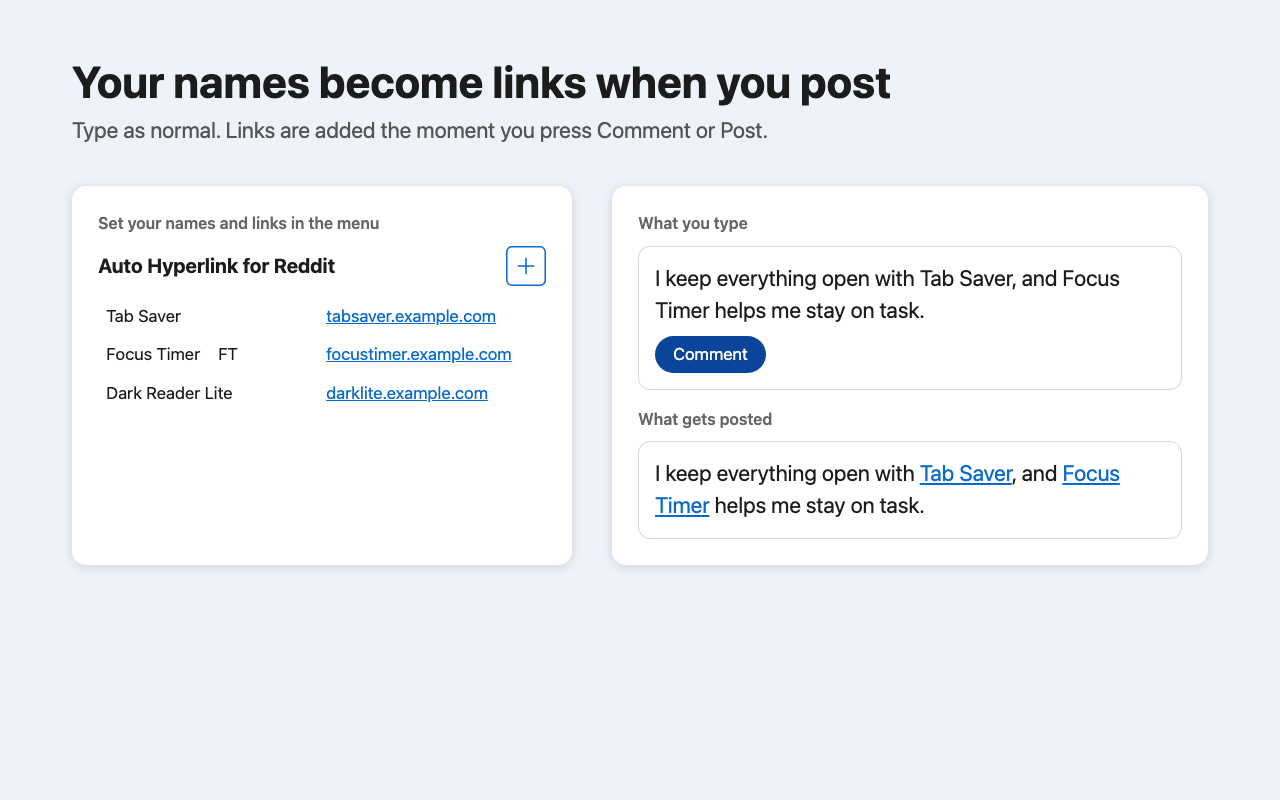
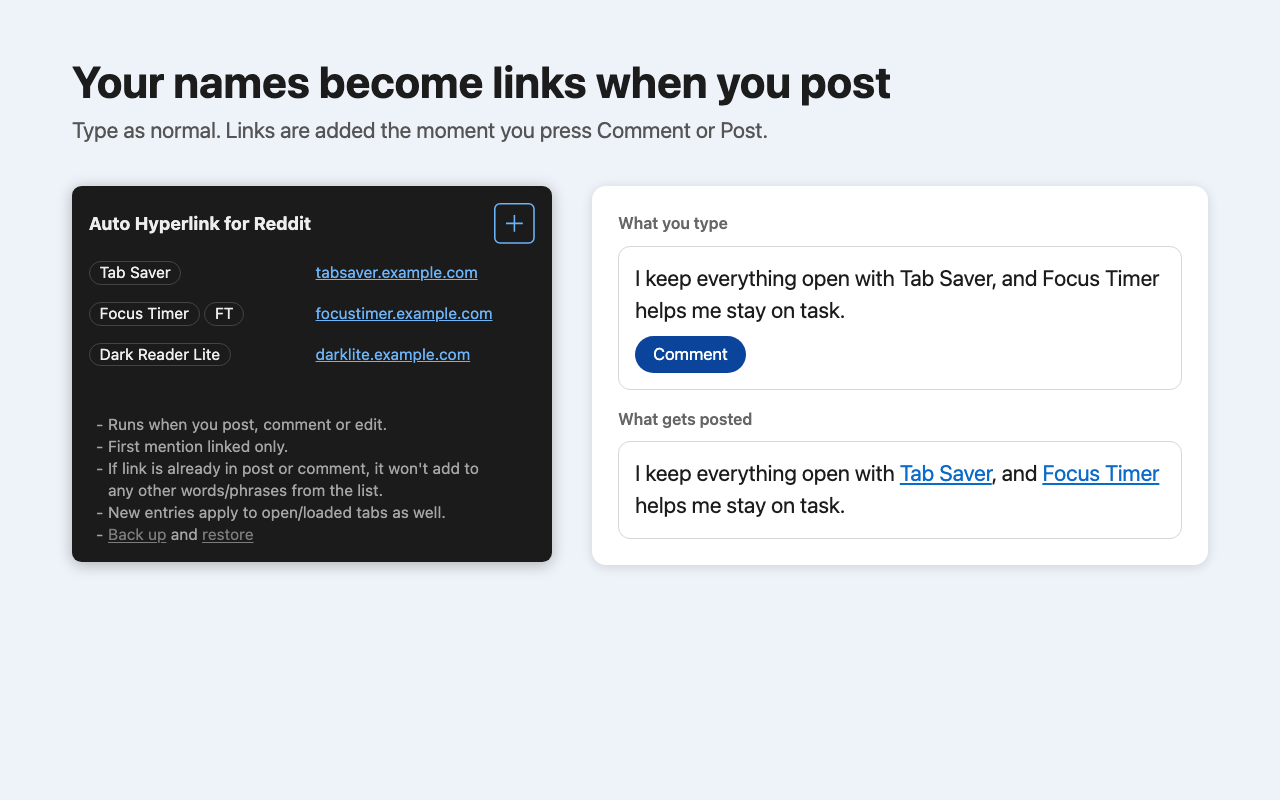
Store screenshot: draw the menu as it really looks

Changed region(s): [[0.0312, 0.2188, 0.4375, 0.7188], [0.4688, 0.25, 0.9062, 0.6875]]

diff --git a/store/screenshot.html b/store/screenshot.html
@@ -3,27 +3,40 @@
   * { box-sizing: border-box; } html, body { margin: 0; width: 1280px; height: 800px; }
   body { background: #eef3f9; color: #1c1c1c; font: 22px/1.45 system-ui, sans-serif; padding: 56px 72px; }
   h1 { font-size: 44px; line-height: 1.15; margin: 0 0 8px; } .sub { color: #555; margin: 0 0 40px; }
-  .cols { display: grid; grid-template-columns: 500px 1fr; gap: 40px; }
+  .cols { display: grid; grid-template-columns: 480px 1fr; gap: 40px; align-items: start; }
   .card { background: #fff; border-radius: 14px; padding: 26px; box-shadow: 0 2px 12px #0002; }
   .tag { font-size: 16px; font-weight: 600; color: #666; margin-bottom: 10px; }
-  /* The menu's own look: names as plain text beside the link's site, under its title and + button. */
-  .head { display: flex; align-items: center; justify-content: space-between; margin-bottom: 18px; }
-  .head b { font-size: 20px; }
-  .add { width: 40px; height: 40px; }
-  .add svg { display: block; fill: none; stroke: #0b6bcb; stroke-width: 1.3; }
-  .row { display: grid; grid-template-columns: 1fr 1fr; align-items: center; gap: 8px; margin-bottom: 14px; font-size: 17px; }
-  .names { display: flex; flex-wrap: wrap; gap: 4px 18px; padding-left: 8px; }
   .box { border: 1px solid #d6d6d6; border-radius: 12px; padding: 16px; margin-bottom: 18px; }
-  a { color: #0b6bcb; } .btn { display: inline-block; background: #0a449b; color: #fff; border-radius: 99px; padding: 6px 18px; font-size: 17px; margin-top: 10px; }
+  .card a { color: #0b6bcb; } .btn { display: inline-block; background: #0a449b; color: #fff; border-radius: 99px; padding: 6px 18px; font-size: 17px; margin-top: 10px; }
+  /* The menu in dark mode, with popup.html's own sizes and colors, at 1.2x. */
+  .menu { --bg: #1b1b1b; --fg: #eee; --weak: #a5a5a5; --line: #444; --accent: #6db3f8; zoom: 1.2; width: 400px; padding: 14px; border-radius: 8px; background: var(--bg); color: var(--fg); font: 13px/1.4 system-ui, sans-serif; box-shadow: 0 2px 12px #0004; }
+  .menu header { display: flex; align-items: center; justify-content: space-between; margin-bottom: 10px; }
+  .menu b { font-size: 15px; }
+  .menu svg { display: block; fill: none; stroke: var(--accent); stroke-width: 1.3; }
+  .row { display: grid; grid-template-columns: 1fr 1fr; align-items: start; gap: 6px; margin-bottom: 6px; }
+  .names { display: flex; flex-wrap: wrap; align-items: center; gap: 4px; min-height: 28px; }
+  .chip { padding: 0 8px; border: 1px solid var(--line); border-radius: 999px; }
+  .link { display: flex; align-items: center; min-height: 28px; }
+  .link a { color: var(--accent); }
+  .note { margin: 26px 0 0; padding: 10px 30px 0 16px; color: var(--weak); list-style: none; }
+  .note li::before { content: "-"; position: absolute; margin-left: -10px; }
+  .note u { color: color-mix(in srgb, var(--weak) 70%, var(--bg)); text-underline-offset: 2px; }
 </style>
 <h1>Your names become links when you post</h1>
 <p class="sub">Type as normal. Links are added the moment you press Comment or Post.</p>
 <div class="cols">
-  <div class="card"><div class="tag">Set your names and links in the menu</div>
-    <div class="head"><b>Auto Hyperlink for Reddit</b><div class="add"><svg width="40" height="40" viewBox="0 0 34 34"><rect x="0.65" y="0.65" width="32.7" height="32.7" rx="4.35"/><path d="M17 10v14M10 17h14"/></svg></div></div>
-    <div class="row"><div class="names"><span>Tab Saver</span></div><a href="#">tabsaver.example.com</a></div>
-    <div class="row"><div class="names"><span>Focus Timer</span><span>FT</span></div><a href="#">focustimer.example.com</a></div>
-    <div class="row"><div class="names"><span>Dark Reader Lite</span></div><a href="#">darklite.example.com</a></div>
+  <div class="menu">
+    <header><b>Auto Hyperlink for Reddit</b><svg width="34" height="34" viewBox="0 0 34 34"><rect x="0.65" y="0.65" width="32.7" height="32.7" rx="4.35"/><path d="M17 10v14M10 17h14"/></svg></header>
+    <div class="row"><div class="names"><span class="chip">Tab Saver</span></div><div class="link"><a href="#">tabsaver.example.com</a></div></div>
+    <div class="row"><div class="names"><span class="chip">Focus Timer</span><span class="chip">FT</span></div><div class="link"><a href="#">focustimer.example.com</a></div></div>
+    <div class="row"><div class="names"><span class="chip">Dark Reader Lite</span></div><div class="link"><a href="#">darklite.example.com</a></div></div>
+    <ul class="note">
+      <li>Runs when you post, comment or edit.</li>
+      <li>First mention linked only.</li>
+      <li>If link is already in post or comment, it won't add to any other words/phrases from the list.</li>
+      <li>New entries apply to open/loaded tabs as well.</li>
+      <li><u>Back up</u> and <u>restore</u></li>
+    </ul>
   </div>
   <div class="card">
     <div class="tag">What you type</div>
